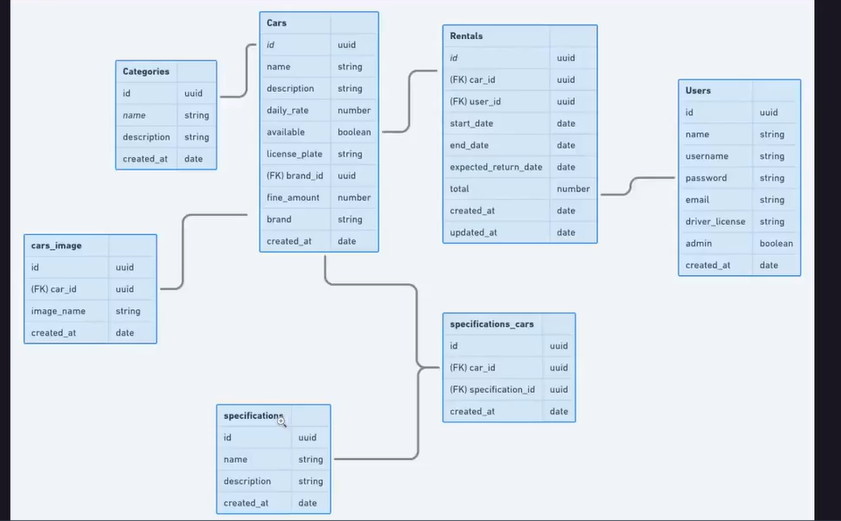
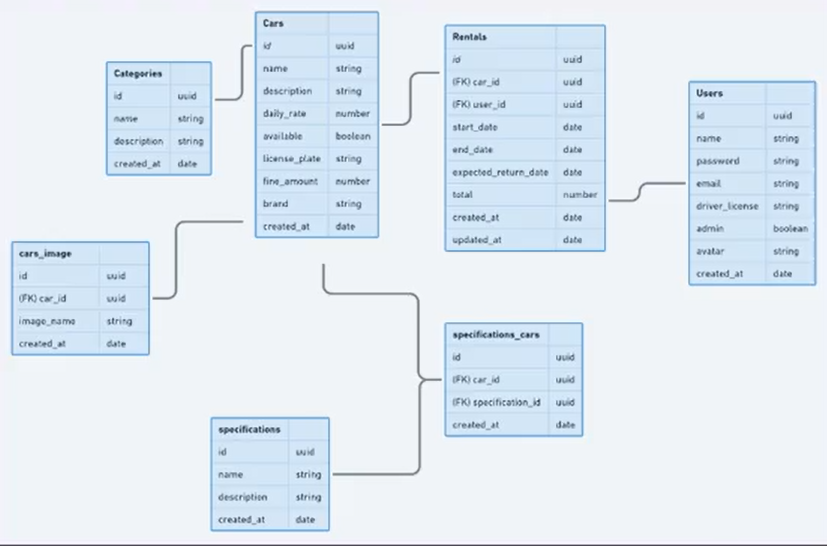
feat: init development of the use case

Changed region(s): [[0.0, 0.0, 1.0, 1.0], [0.3023, 0.0, 0.4534, 0.0921]]

diff --git a/src/modules/accounts/useCases/updateUserAvatar/UpdateUserAvatarUseCase.ts b/src/modules/accounts/useCases/updateUserAvatar/UpdateUserAvatarUseCase.ts
@@ -1,0 +1,7 @@
+class UpdateUserAvatarUseCase {
+  public async execute() {
+
+  }
+}
+
+export { UpdateUserAvatarUseCase }
